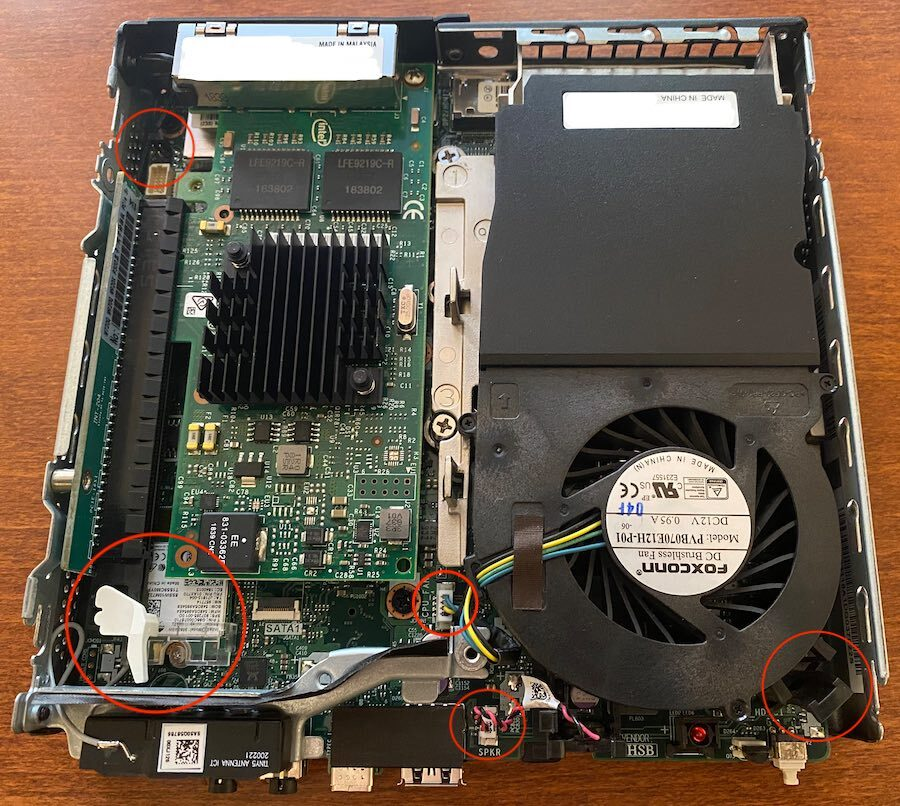
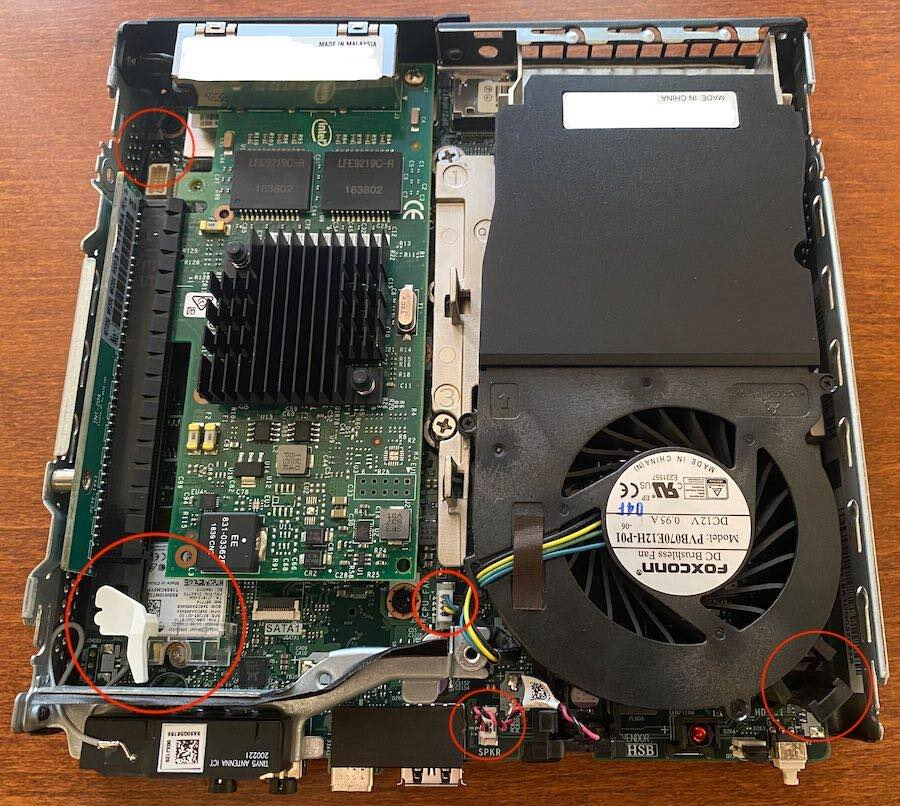
recompress images, add riser image

diff --git a/README.md b/README.md
@@ -76,6 +76,11 @@ There are 4 port and 2 port variants of the i350 card as well as other options. 
     - Some risers contain PCI release tabs that require the WiFi card be removed to fit. 
     - You can modify the riser card by removing part or all of the PCI release tab as I do, or remove the WiFi card instead.
     - The OEM WiFi card is not compatible with OPNsense and removing it can save you around a watt at idle.
+
+<p align="center">
+  <img width="80%" height="auto" src="./pics/riser.jpg">
+</p>
+
 * Remove the top chassis cover
 * Remove the SATA 2.5" drive adapter and cable 
 	- the cable uses a flip up, zero force style connector
